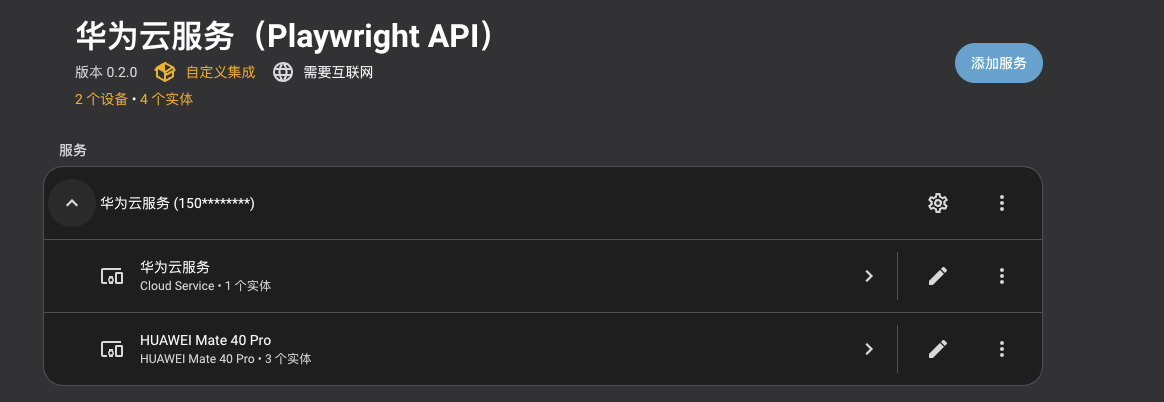
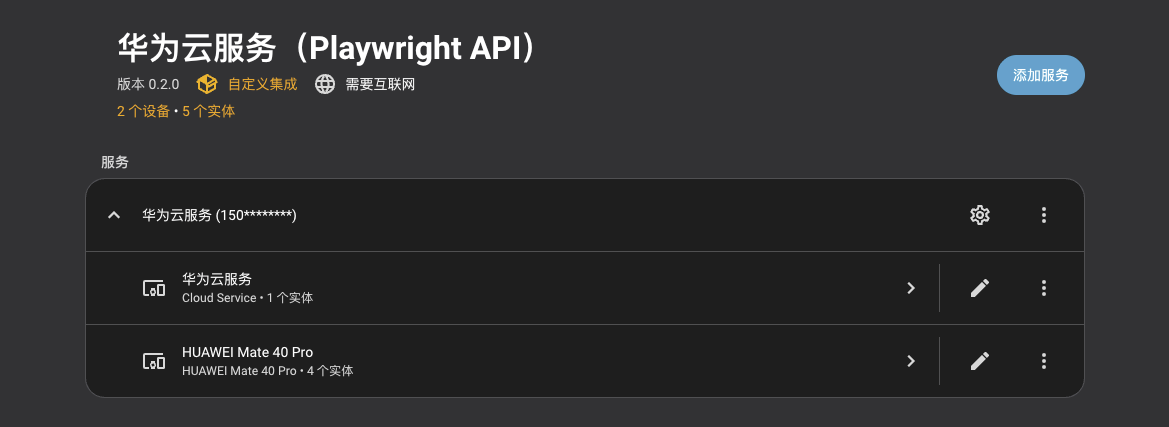
feat: initial public release (v0.2.1)

diff --git a/custom_components/huawei_cloud/button.py b/custom_components/huawei_cloud/button.py
@@ -38,6 +38,9 @@ def _create_ring_buttons(
     entities = []
 
     for device in devices:
+        if device.get("is_shared"):
+            continue
+
         device_id = _get_stable_device_id(device)
         if not device_id or device_id in known_ids:
             continue

diff --git a/README.md b/README.md
@@ -143,8 +143,9 @@ curl http://你的服务器IP:8000/health
 | 设备追踪器 | device_tracker | GPS 位置，在 HA 地图上显示 |
 | 地址 | 传感器 | 中文地址（需高德 API 密钥） |
 | 电量 | 传感器 | 电池百分比 |
+| 响铃 | 按钮 | 触发设备响铃（仅自有设备支持） |
 
-每台华为设备会创建 1 个追踪器 + 2 个传感器（地址、电量）。
+每台华为设备会创建 1 个追踪器 + 2 个传感器（地址、电量）+ 1 个响铃按钮，共 4 个实体。
 
 <div align="center">
   <img src="screenshots/Plugin-Interface.jpg" width="700">
